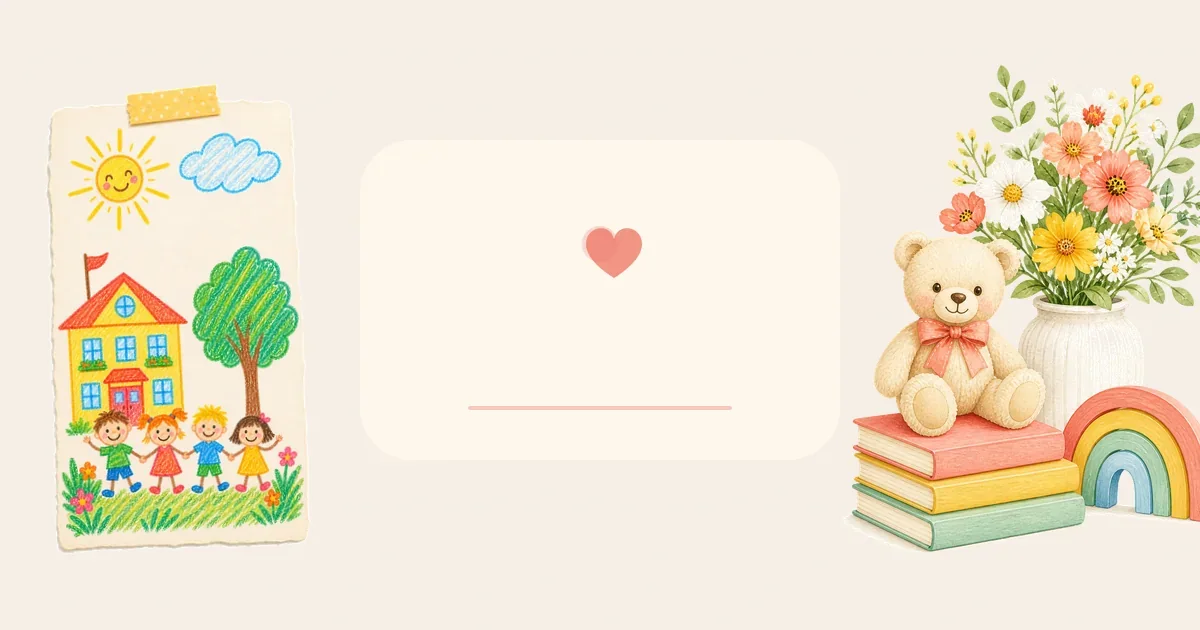
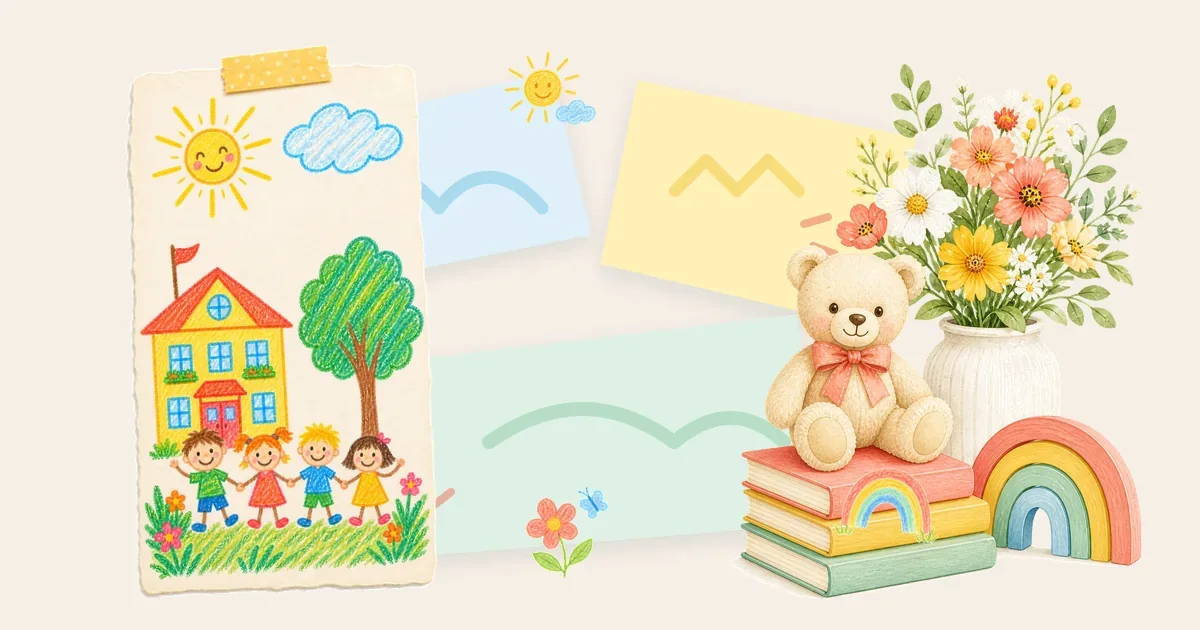
Polish kindergarten export papers and previews

diff --git a/src/components/templates/universal-v1/universal-export-card.tsx b/src/components/templates/universal-v1/universal-export-card.tsx
@@ -258,11 +258,10 @@ function ExportPhoto({
     frame.caption.minScale
   );
   const paperCaption = frame.caption.paper;
-  const paperColor = paperCaption === "mint-coral" ? "#dceee2" : "#f6e4a5";
-  const tapeColor = paperCaption === "mint-coral" ? "rgba(239,118,101,.72)" : "rgba(117,191,229,.8)";
+  const exportCaptionUnderlay = frame.caption.exportUnderlay;
   const alignItems = frame.caption.align === "left" ? "flex-start" : frame.caption.align === "right" ? "flex-end" : "center";
   const captionAreaStyle = paperCaption === "mint-coral"
-    ? { ...rectStyle(framePreset.captionArea), top: "73.5%", height: "25%" }
+    ? { ...rectStyle(framePreset.captionArea), left: "2%", top: "69%", width: "96%", height: "30%" }
     : frame.caption.layout === "expanded"
       ? { ...rectStyle(framePreset.captionArea), top: "76.5%", height: "22%" }
     : width <= 360
@@ -275,8 +274,8 @@ function ExportPhoto({
     </div>
     {frame.overlay ? <img src={resolveAsset(frame.overlay.src)} style={{ position: "absolute", inset: 0, width: "100%", height: "100%" }} /> : null}
     <div data-safe-text data-text-boundary data-text-preset="photo-caption" data-caption-paper={paperCaption} style={{ position: "absolute", display: "flex", flexDirection: "column", justifyContent: "center", alignItems, ...captionAreaStyle, overflow: paperCaption ? "visible" : "hidden", color: textColor, fontFamily, fontSize: resolvedCaptionFontSize, fontWeight: 600, lineHeight: width < 400 ? .88 : .96, textAlign: frame.caption.align }}>
-      {paperCaption ? <><span aria-hidden style={{ position: "absolute", zIndex: 0, inset: "5% 0 0", clipPath: "polygon(2% 10%,23% 2%,49% 8%,76% 0,98% 9%,96% 91%,72% 98%,45% 92%,20% 100%,3% 88%)", backgroundColor: paperColor, backgroundImage: "radial-gradient(circle at 7px 7px, rgba(63,127,149,.14) 1.3px, transparent 1.5px)", backgroundSize: "22px 22px", filter: "drop-shadow(0 5px 5px rgba(0,0,0,.14))" }} /><span aria-hidden style={{ position: "absolute", zIndex: 2, top: paperCaption === "mint-coral" ? "-4%" : 0, left: paperCaption === "mint-coral" ? "33%" : "35%", width: paperCaption === "mint-coral" ? "34%" : "30%", height: paperCaption === "mint-coral" ? "25%" : "19%", clipPath: "polygon(2% 13%,96% 0,100% 88%,4% 100%)", background: tapeColor, transform: `rotate(${paperCaption === "mint-coral" ? 1.5 : -2}deg)` }} /></> : null}
-      <span style={{ position: "relative", zIndex: paperCaption ? 3 : 1 }}>{photo.caption}</span>
+      {exportCaptionUnderlay ? <img data-export-caption-paper-underlay src={resolveAsset(exportCaptionUnderlay.src)} style={{ position: "absolute", left: 0, top: 0, width: "100%", height: "100%", objectFit: "fill" }} /> : null}
+      <span style={{ position: "relative", display: "flex", width: "100%", justifyContent: alignItems }}>{photo.caption}</span>
     </div>
   </div>;
 }
@@ -390,9 +389,13 @@ function Moments({
   const columnGap = format === "post" ? 10 : 12;
   const sideGap = format === "story" ? 8 : 6;
   const sideCaptionSize = (caption: string) => caption.length > 42 ? 28 : 29;
-  const heading = <div data-export-moments-heading style={{ display: "flex", flexDirection: "column", alignItems: "center", justifyContent: "center", minHeight: format === "post" ? 82 : 94, padding: "0 8px", boxSizing: "border-box", textAlign: "center" }}>
-    <strong style={{ fontFamily: profile.typography.heading.family, fontSize: layout.heading, lineHeight: 1.04, textAlign: "center" }}>Моменты</strong>
-    <span style={{ marginTop: 5, color: profile.colors.muted, fontFamily: profile.typography.handwritten.family, fontSize: format === "story" ? 28 : format === "a4" ? 26 : 22, fontWeight: profile.typography.handwritten.weight, lineHeight: 1.08, textAlign: "center" }}>Фото, которыми хочется поделиться</span>
+  const headingUnderlay = profile.export.memoriesHeadingUnderlay;
+  const paperHeading = Boolean(headingUnderlay);
+  const paperHeadingHeight = format === "post" ? 134 : format === "story" ? 148 : 142;
+  const heading = <div data-export-moments-heading data-export-moments-paper={paperHeading ? "true" : undefined} style={{ position: "relative", display: "flex", flexDirection: "column", alignItems: "center", justifyContent: "center", width: paperHeading ? format === "post" ? "118%" : "104%" : undefined, height: paperHeading ? paperHeadingHeight : undefined, minHeight: paperHeading ? paperHeadingHeight : format === "post" ? 82 : 94, padding: paperHeading ? "20px 32px 22px" : "0 8px", boxSizing: "border-box", textAlign: "center" }}>
+    {headingUnderlay ? <img data-export-moments-paper-underlay src={resolveAsset(headingUnderlay.src)} style={{ position: "absolute", left: 0, top: 0, width: "100%", height: "100%", objectFit: "fill" }} /> : null}
+    <strong style={{ position: "relative", display: "flex", fontFamily: profile.typography.heading.family, fontSize: layout.heading, lineHeight: 1.04, textAlign: "center" }}>Моменты</strong>
+    <span style={{ position: "relative", display: "flex", marginTop: 5, color: profile.colors.muted, fontFamily: profile.typography.handwritten.family, fontSize: format === "story" ? 28 : format === "a4" ? 26 : 22, fontWeight: profile.typography.handwritten.weight, lineHeight: 1.08, textAlign: "center" }}>Фото, которыми хочется поделиться</span>
   </div>;
 
   return <div data-export-memories-layout="feature-stack" style={{ display: "flex", width: "100%", height: "100%", padding: format === "post" ? "8px 6px" : "10px 8px", boxSizing: "border-box", alignItems: "center", justifyContent: "center" }}>

diff --git a/src/templates/kindergarten-doodles/profile.ts b/src/templates/kindergarten-doodles/profile.ts
@@ -2,10 +2,10 @@ import { defineTemplate, defineTextCard } from "@/lib/templates/profile";
 import { defineSectionUnderlay } from "@/lib/templates/section-underlays";
 
 const asset = (src: `/templates/kindergarten-doodles/${string}`, width: number, height: number) => ({ src, width, height });
-const captionPaperFrame = (preset: "portrait-caption-paper" | "landscape-caption-paper", minScale = 0.7, paper: "yellow-blue" | "mint-coral" = "yellow-blue") => ({
+const captionPaperFrame = (preset: "portrait-caption-paper" | "landscape-caption-paper", minScale = 0.7, paper: "yellow-blue" | "mint-coral" = "yellow-blue", exportUnderlay?: ReturnType<typeof asset>) => ({
   preset,
   fit: "cover" as const,
-  caption: { maxChars: 45 as const, maxLines: 2 as const, align: "center" as const, fontToken: "handwritten" as const, minScale, layout: "standard" as const, paper }
+  caption: { maxChars: 45 as const, maxLines: 2 as const, align: "center" as const, fontToken: "handwritten" as const, minScale, layout: "standard" as const, paper, exportUnderlay }
 });
 
 export const kindergarten_doodlesProfile = defineTemplate({
@@ -56,7 +56,7 @@ export const kindergarten_doodlesProfile = defineTemplate({
     photoFrames: {
       messagePortrait: captionPaperFrame("portrait-caption-paper"),
       messageLandscape: captionPaperFrame("landscape-caption-paper"),
-      memory: captionPaperFrame("landscape-caption-paper", 0.55, "mint-coral")
+      memory: captionPaperFrame("landscape-caption-paper", 0.55, "mint-coral", asset("/templates/kindergarten-doodles/memory-caption-underlay-export-v1.webp", 400, 120))
     },
     decor: [
       { id: "hero-drawing-desktop", asset: asset("/templates/kindergarten-doodles/decor-hero-drawing-v5.webp", 720, 1080), anchor: "hero", rect: { x: -0.035, y: 0.025, width: 0.335, height: 0.96 }, rotation: -2, opacity: 0.99, visibleOn: ["desktop"] },
@@ -101,6 +101,7 @@ export const kindergarten_doodlesProfile = defineTemplate({
   public: { blocks: ["hero", "qualities", "memories", "quotes"], heroDescription: "Тёплая публичная часть подарка воспитателю:\nдобрые слова, детские улыбки и общие моменты." },
   export: {
     profile: "universal-export-v1",
+    memoriesHeadingUnderlay: asset("/templates/kindergarten-doodles/memories-heading-underlay-export-v1.webp", 320, 80),
     heroDescriptionMaxWidth: { story: 500, post: 500, a4: 470 },
     counters: {
       preset: "classic-label",

diff --git a/src/components/templates/universal-v1/universal-export-card.test.tsx b/src/components/templates/universal-v1/universal-export-card.test.tsx
@@ -147,6 +147,19 @@ describe("UniversalTemplateExportCard", () => {
     expect(quoteDecors.every(({ src }) => src.includes("quote-card-") && src.includes("crop="))).toBe(true);
     expect(container.querySelector('[data-universal-export-block="closing"] [data-export-asset-underlay="horizontal-slice"]'))
       .toHaveAttribute("src", expect.stringContaining("section-closing-desktop-v7.webp"));
+    expect(container.querySelector('[data-export-moments-heading]')).toHaveAttribute("data-export-moments-paper", "true");
+    expect(container.querySelector('[data-export-moments-paper-underlay]')).toHaveAttribute("src", "/templates/kindergarten-doodles/memories-heading-underlay-export-v1.webp");
+    expect(container.querySelector('[data-export-moments-heading]')).toHaveStyle({
+      width: format === "post" ? "118%" : "104%",
+      height: `${format === "post" ? 134 : format === "story" ? 148 : 142}px`
+    });
+    expect(container.querySelectorAll('[data-export-caption-paper-underlay]')).toHaveLength(universalExportFormats[format].photoCount);
+    for (const captionUnderlay of Array.from(container.querySelectorAll<HTMLImageElement>('[data-export-caption-paper-underlay]'))) {
+      expect(captionUnderlay).toHaveAttribute("src", "/templates/kindergarten-doodles/memory-caption-underlay-export-v1.webp");
+    }
+    for (const caption of Array.from(container.querySelectorAll<HTMLElement>('[data-text-preset="photo-caption"]'))) {
+      expect(caption).toHaveStyle({ left: "2%", top: "69%", width: "96%", height: "30%" });
+    }
     for (const layer of heroDecor) {
       expect(container.querySelector(`[data-decor-layer="${layer.id}"]`)).toBeInTheDocument();
     }

diff --git a/src/lib/templates/profile.ts b/src/lib/templates/profile.ts
@@ -84,6 +84,7 @@ export type UniversalPhotoFrame = {
     minScale: number;
     layout?: "standard" | "expanded";
     paper?: "yellow-blue" | "mint-coral";
+    exportUnderlay?: TemplateAssetRef;
   };
 };
 
@@ -186,6 +187,7 @@ export type TemplateProfile = {
       post: number;
       a4: number;
     };
+    memoriesHeadingUnderlay?: TemplateAssetRef;
     counters?: {
       preset?: "soft-pill" | "classic-label";
       congratulations: { text: string; surface: string; outline?: string };
@@ -394,6 +396,7 @@ const validatePhotoFrame = (
   if (value.caption.paper !== undefined && !["yellow-blue", "mint-coral"].includes(String(value.caption.paper))) {
     issues.push({ path: `${path}.caption.paper`, message: "Неизвестный стиль бумажной подписи." });
   }
+  validateAsset(value.caption.exportUnderlay, `${path}.caption.exportUnderlay`, issues, true);
 };
 
 const validateTextCard = (
@@ -737,6 +740,7 @@ export const validateTemplateProfile = (value: unknown): TemplateProfileValidati
         }
       }
     }
+    validateAsset(value.export.memoriesHeadingUnderlay, "export.memoriesHeadingUnderlay", issues, true);
     if (value.export.counters !== undefined) {
       if (!isRecord(value.export.counters)) {
         issues.push({ path: "export.counters", message: "Ожидаются цвета экспортных счётчиков." });

diff --git a/docs/PUBLIC_SHARE_EXPORTS.md b/docs/PUBLIC_SHARE_EXPORTS.md
@@ -100,6 +100,8 @@ Production-ограничения:
 - В рендере `ImageResponse` не передаются CSS-свойства со значением `undefined`: это гарантирует скачивание и для бумажного шаблона, где декоративные рамки не используются.
 - `ImageResponse` не декодирует WebP/AVIF-ассеты профиля напрямую. Общий universal export resolver перед растеризацией отдаёт такие локальные ассеты через защищённый PNG-маршрут; профиль при этом продолжает использовать оптимизированный WebP/AVIF в Web. Новый шаблон не должен хранить отдельные ручные PNG-копии только ради Story/Post/A4.
 - Экспортные section-underlay с nine-slice/horizontal-slice сначала собираются сервером в один PNG нужного размера, а затем добавляются в секцию обычным растровым слоем. Нельзя оставлять их вложенными абсолютными слоями: `ImageResponse` может потерять подложку или создать чёрный прямоугольник размером с прозрачную секцию.
+- Художественная бумага под заголовком блока или подписью фотографии, обязательная для смысла композиции, задаётся профильным растровым ассетом. Нельзя полагаться только на `background`, `clip-path`, CSS-градиент или тень: Satori может отрисовать текст без подложки.
+- При приёмке растровой подложки проверяется не только CSS-контейнер, но и видимая область внутри файла. Бумага должна занимать почти весь прозрачный холст, а внутренние отступы контейнера обязаны вмещать максимальный разрешённый текст во всех форматах Story/Post/A4.
 
 ## Шаблон «Маршрут»
 
@@ -158,6 +160,7 @@ Production-ограничения:
 - Story и A4 показывают три фотографии: слева крупная карточка, над ней заголовок «Моменты» и описание; справа две меньшие карточки столбцом.
 - Post показывает первые две фотографии: крупную слева и меньшую справа; заголовок и описание находятся над правой карточкой.
 - Все полароиды слегка повёрнуты разными углами как единые контейнеры, поэтому рамка, фотография, overlay и подпись не расходятся.
+- Если подпись фотографии оформлена отдельным бумажным листом, профиль задаёт `photoFrames.*.caption.exportUnderlay`; если бумага нужна заголовку «Моменты», используется `export.memoriesHeadingUnderlay`. Оба ассета проходят через общий export resolver и не дублируются в route конкретного шаблона.
 - Story/Post/A4 показывают соответственно 2/3/3 карточки в блоке «Особенно тёплые слова»; в пределах одного формата все цитаты используют одинаковый кегль.
 - Подложки качеств и цитат сохраняют углы и художественные края через девятисегментную отрисовку; допускается растяжение только спокойных центральных зон без значимого рисунка.
 - Завершающий блок использует единый текст приватности, логотип и слоган Slovesto; боковой рисунок подложки масштабируется пропорционально по полной высоте, а по горизонтали расширяется только центральная зона.

diff --git a/docs/TEMPLATE_CREATION_RUNBOOK.md b/docs/TEMPLATE_CREATION_RUNBOOK.md
@@ -233,6 +233,7 @@ summary: defineSectionUnderlay(
 | Тексты | Короткие, обычные и предельные; имя 46, подпись 45, качество 28, фраза 100, главное поздравление 500 символов |
 | Необязательные блоки | Полный состав и отсутствие qualities/memories/quotes без пустых контейнеров |
 | Export | Story `1080 × 1920`, Post `1080 × 1350`, A4 `1240 × 1754`; счётчики поздравлений и фото совпадают с public; качества `2–1–2`; «Моменты» — крупное фото + правая колонка; 3/2/3 фото и 2/3/3 лучших фразы соответственно |
+| Export paper | Заголовок и описание блока полностью лежат на одной подложке; листы подписей заходят на фото, не оставляют белого паспарту и вмещают две строки во всех трёх форматах |
 | Intro | Только лёгкие intro-токены; тяжёлый page asset не загружается |
 
 Для каждого состояния проверить:
